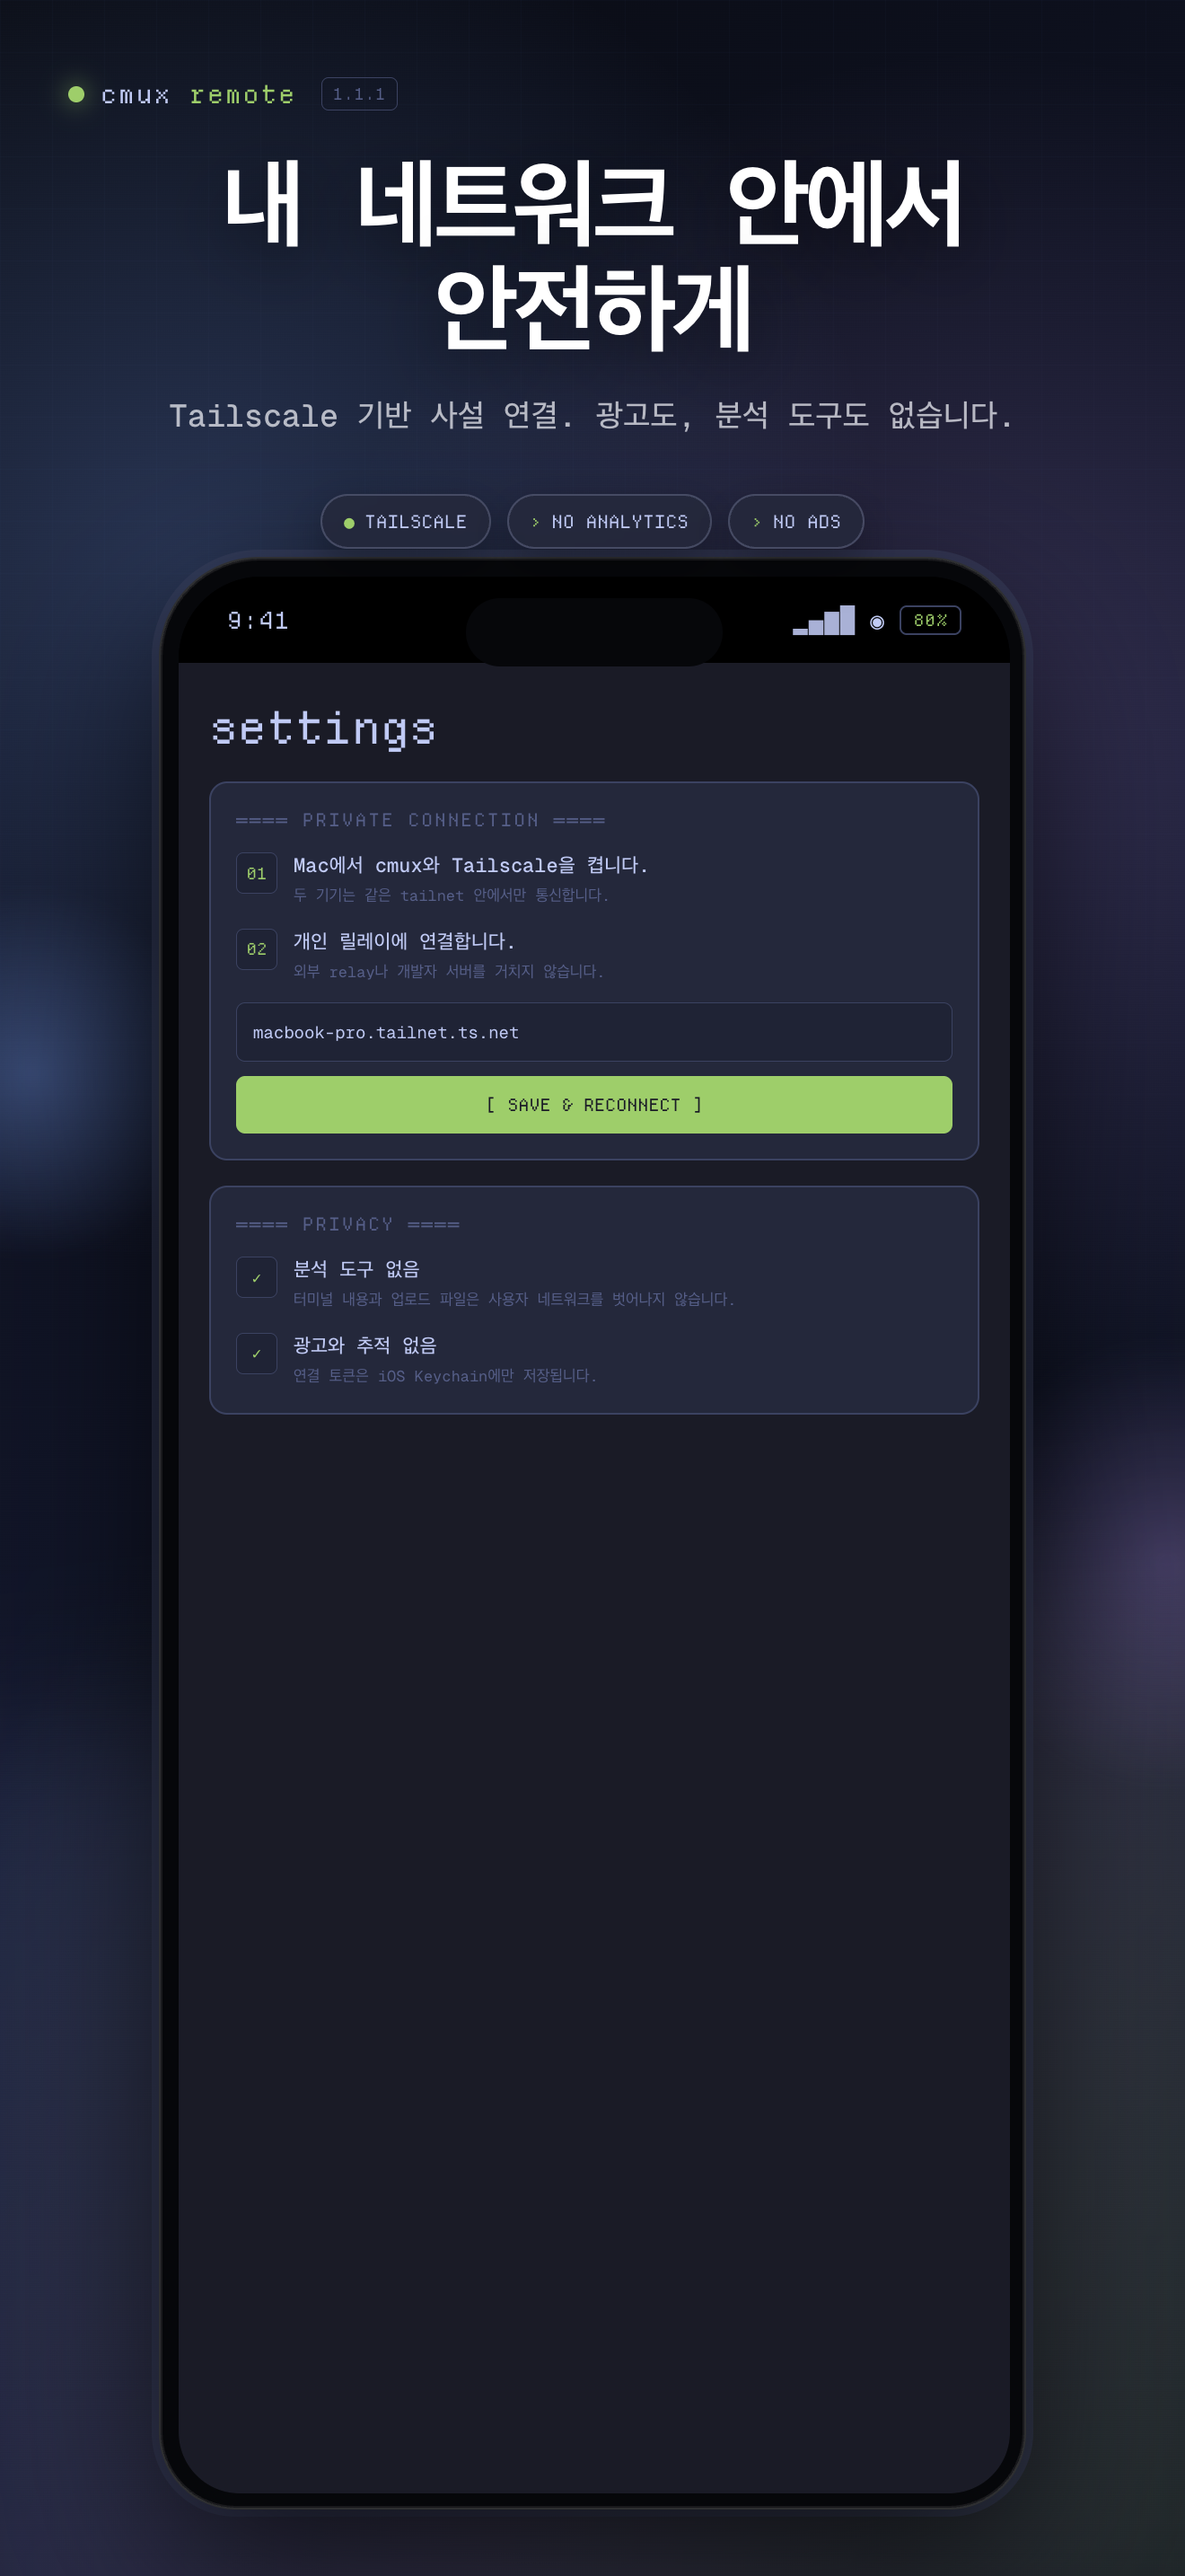
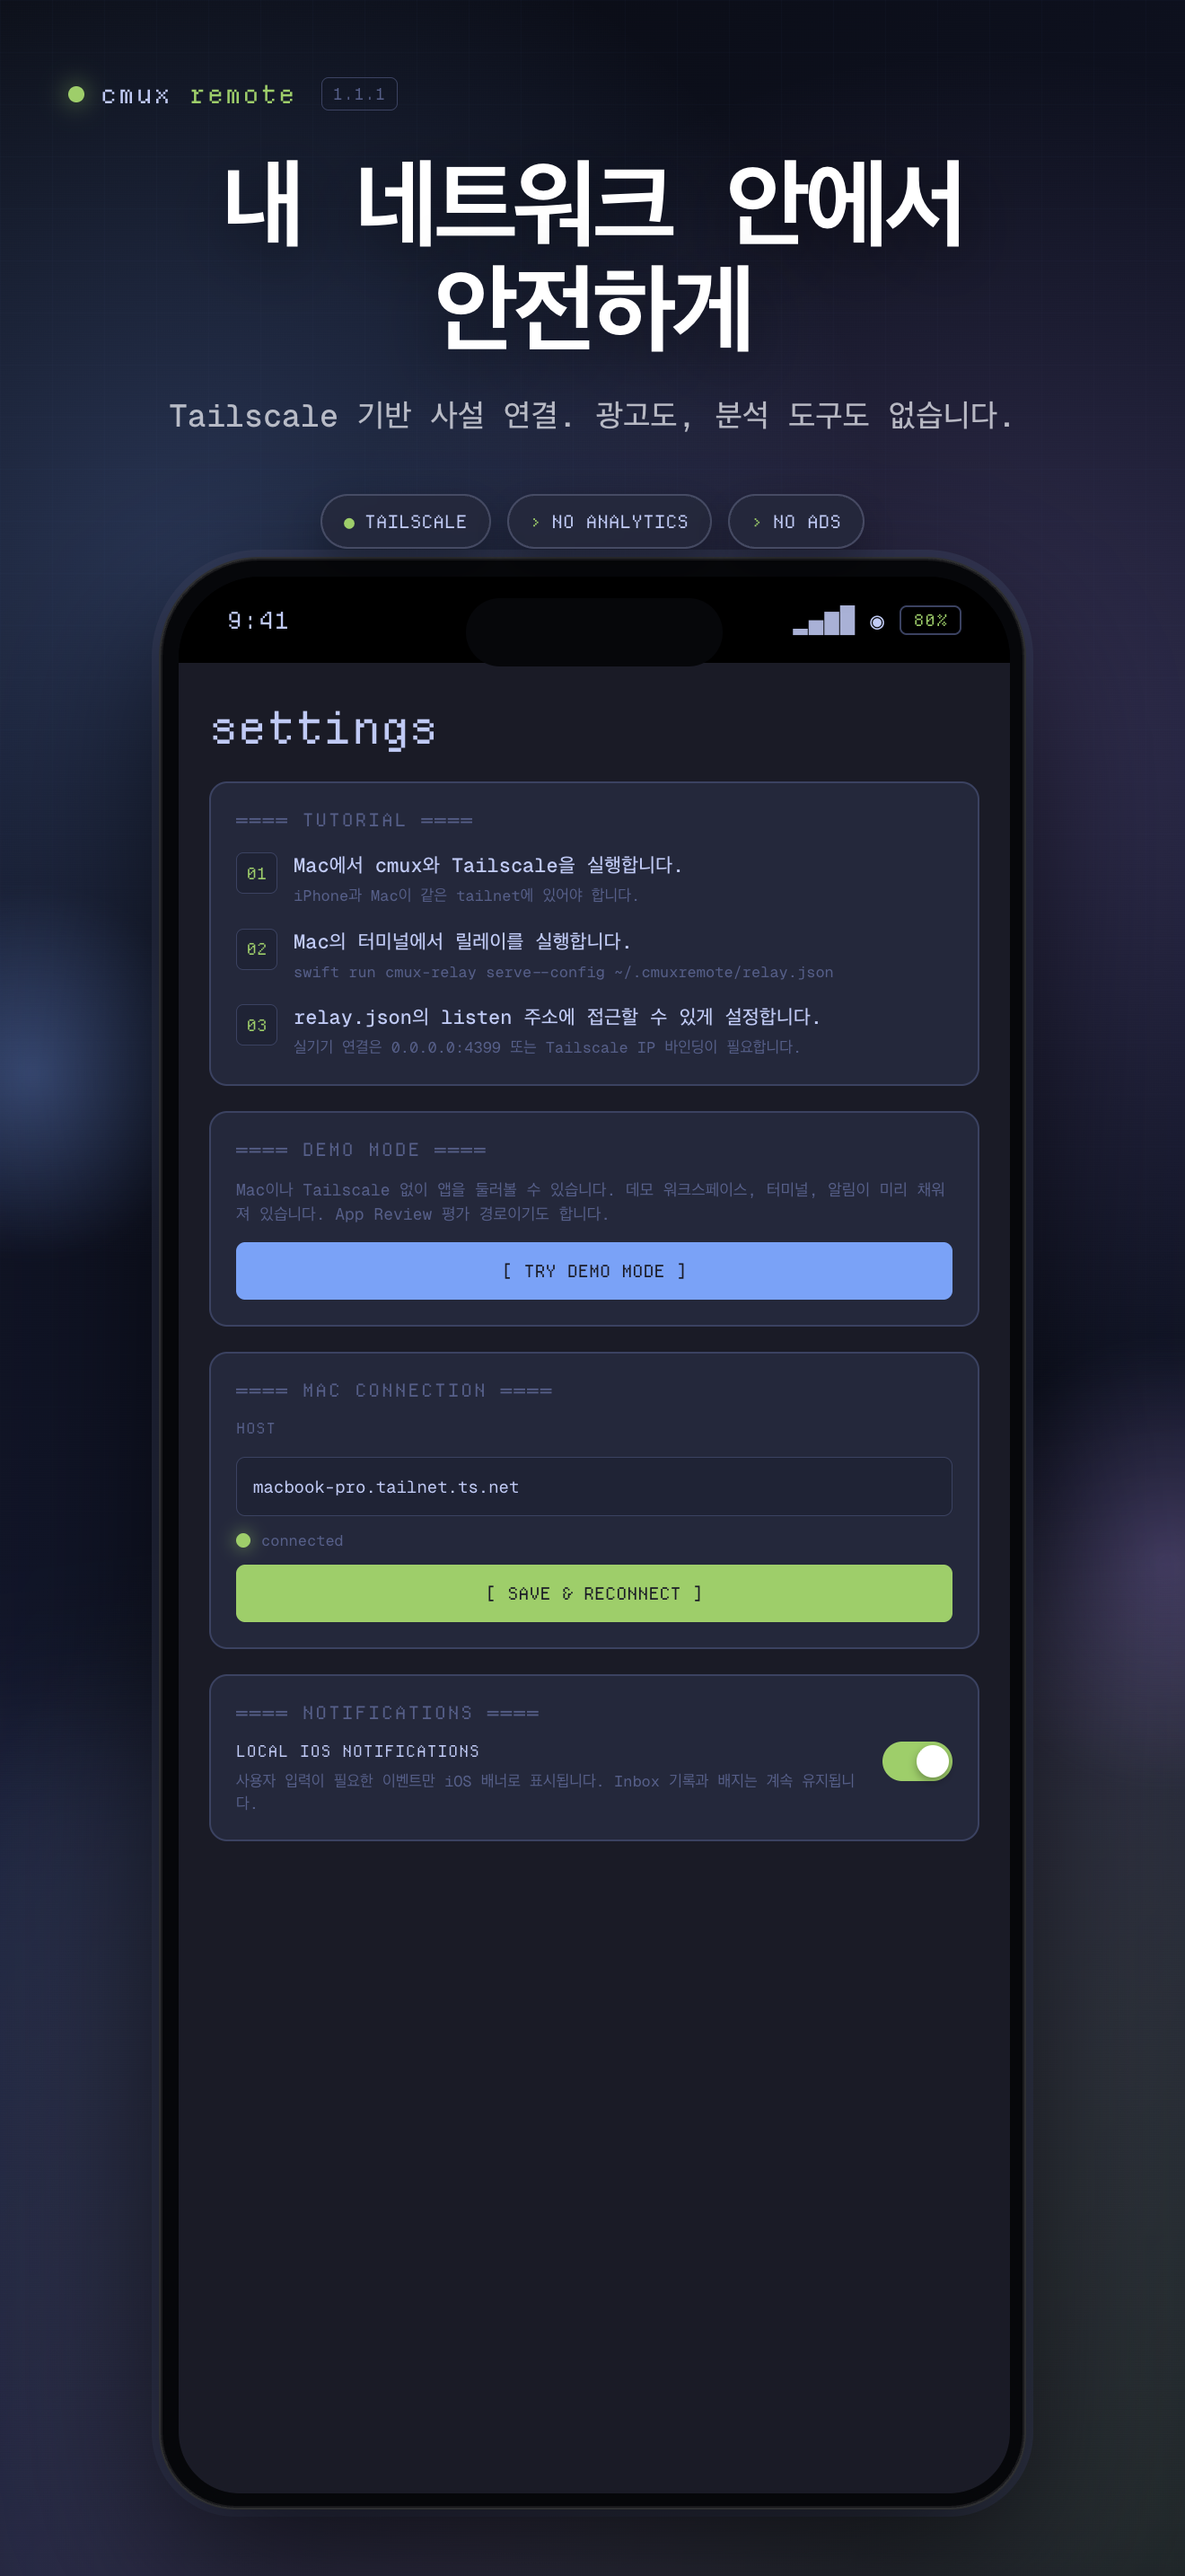
Align screenshots with localized settings copy

Changed region(s): [[0.1864, 0.3103, 0.8076, 0.5586], [0.1864, 0.5896, 0.8076, 0.7137]]

diff --git a/screens-src/1.1.1/index.html b/screens-src/1.1.1/index.html
@@ -768,6 +768,76 @@
       font-family: Departure, monospace;
       font-size: 19px;
     }
+    .settings-description {
+      margin-top: 20px;
+      color: var(--muted);
+      font-size: 18px;
+      line-height: 1.48;
+    }
+    .settings-action {
+      height: 64px;
+      margin-top: 18px;
+      display: flex;
+      align-items: center;
+      justify-content: center;
+      border-radius: 10px;
+      color: var(--canvas);
+      background: var(--blue);
+      font-family: Departure, monospace;
+      font-size: 19px;
+    }
+    .settings-label {
+      margin-top: 20px;
+      color: var(--muted);
+      font-family: Departure, monospace;
+      font-size: 16px;
+      letter-spacing: 1px;
+    }
+    .connection-state {
+      margin-top: 16px;
+      display: flex;
+      align-items: center;
+      gap: 12px;
+      color: var(--muted);
+      font-size: 17px;
+    }
+    .toggle-row {
+      margin-top: 20px;
+      display: flex;
+      align-items: flex-start;
+      gap: 18px;
+    }
+    .toggle-copy { min-width: 0; flex: 1; }
+    .toggle-title {
+      color: var(--ink);
+      font-family: Departure, monospace;
+      font-size: 17px;
+      letter-spacing: 1px;
+    }
+    .toggle-description {
+      margin-top: 10px;
+      color: var(--muted);
+      font-size: 17px;
+      line-height: 1.45;
+    }
+    .toggle {
+      width: 78px;
+      height: 44px;
+      padding: 4px;
+      flex: none;
+      border-radius: 24px;
+      background: var(--green);
+    }
+    .toggle::after {
+      content: "";
+      display: block;
+      width: 36px;
+      height: 36px;
+      margin-left: 34px;
+      border-radius: 50%;
+      background: white;
+      box-shadow: 0 4px 10px rgba(0,0,0,.35);
+    }
 
     .float-card, .float-pill-row {
       position: absolute;
@@ -1143,19 +1213,51 @@
 
     function settingsScreen() {
       const ko = locale === "ko";
+      const s = ko ? {
+        step1Title: "Mac에서 cmux와 Tailscale을 실행합니다.",
+        step1Detail: "iPhone과 Mac이 같은 tailnet에 있어야 합니다.",
+        step2Title: "Mac의 터미널에서 릴레이를 실행합니다.",
+        step2Detail: "swift run cmux-relay serve --config ~/.cmuxremote/relay.json",
+        step3Title: "relay.json의 listen 주소에 접근할 수 있게 설정합니다.",
+        step3Detail: "실기기 연결은 0.0.0.0:4399 또는 Tailscale IP 바인딩이 필요합니다.",
+        demo: "Mac이나 Tailscale 없이 앱을 둘러볼 수 있습니다. 데모 워크스페이스, 터미널, 알림이 미리 채워져 있습니다. App Review 평가 경로이기도 합니다.",
+        notifications: "사용자 입력이 필요한 이벤트만 iOS 배너로 표시됩니다. Inbox 기록과 배지는 계속 유지됩니다."
+      } : {
+        step1Title: "Start cmux and Tailscale on your Mac.",
+        step1Detail: "Your iPhone and Mac must be on the same tailnet.",
+        step2Title: "Start the relay in Terminal on your Mac.",
+        step2Detail: "swift run cmux-relay serve --config ~/.cmuxremote/relay.json",
+        step3Title: "Make the listen address in relay.json reachable.",
+        step3Detail: "A physical device requires binding to 0.0.0.0:4399 or your Tailscale IP.",
+        demo: "Explore the app without a Mac or Tailscale. Demo workspaces, terminals, and notifications are preloaded. This is also the App Review evaluation path.",
+        notifications: "Only events that require your input appear as iOS banners. Inbox history and badges remain available."
+      };
       return `${statusBar()}<div class="settings-screen">
         <div class="settings-title">settings</div>
         <div class="settings-card">
-          <div class="settings-rule">════ ${ko ? "PRIVATE CONNECTION" : "PRIVATE CONNECTION"} ════</div>
-          <div class="guide-step"><div class="step-index">01</div><div class="step-copy"><h4>${ko ? "Mac에서 cmux와 Tailscale을 켭니다." : "Run cmux and Tailscale on your Mac."}</h4><p>${ko ? "두 기기는 같은 tailnet 안에서만 통신합니다." : "Both devices communicate inside your own tailnet."}</p></div></div>
-          <div class="guide-step"><div class="step-index">02</div><div class="step-copy"><h4>${ko ? "개인 릴레이에 연결합니다." : "Connect to your private relay."}</h4><p>${ko ? "외부 relay나 개발자 서버를 거치지 않습니다." : "No developer-operated or third-party relay is involved."}</p></div></div>
+          <div class="settings-rule">════ TUTORIAL ════</div>
+          <div class="guide-step"><div class="step-index">01</div><div class="step-copy"><h4>${s.step1Title}</h4><p>${s.step1Detail}</p></div></div>
+          <div class="guide-step"><div class="step-index">02</div><div class="step-copy"><h4>${s.step2Title}</h4><p>${s.step2Detail}</p></div></div>
+          <div class="guide-step"><div class="step-index">03</div><div class="step-copy"><h4>${s.step3Title}</h4><p>${s.step3Detail}</p></div></div>
+        </div>
+        <div class="settings-card">
+          <div class="settings-rule">════ DEMO MODE ════</div>
+          <div class="settings-description">${s.demo}</div>
+          <div class="settings-action">[ TRY DEMO MODE ]</div>
+        </div>
+        <div class="settings-card">
+          <div class="settings-rule">════ MAC CONNECTION ════</div>
+          <div class="settings-label">HOST</div>
           <div class="connect-field">macbook-pro.tailnet.ts.net</div>
+          <div class="connection-state"><span class="online"></span>connected</div>
           <div class="connect-button">[ SAVE &amp; RECONNECT ]</div>
         </div>
         <div class="settings-card">
-          <div class="settings-rule">════ PRIVACY ════</div>
-          <div class="guide-step"><div class="step-index">✓</div><div class="step-copy"><h4>${ko ? "분석 도구 없음" : "No analytics"}</h4><p>${ko ? "터미널 내용과 업로드 파일은 사용자 네트워크를 벗어나지 않습니다." : "Terminal content and uploads stay on your own network."}</p></div></div>
-          <div class="guide-step"><div class="step-index">✓</div><div class="step-copy"><h4>${ko ? "광고와 추적 없음" : "No ads or tracking"}</h4><p>${ko ? "연결 토큰은 iOS Keychain에만 저장됩니다." : "Connection tokens are stored only in the iOS Keychain."}</p></div></div>
+          <div class="settings-rule">════ NOTIFICATIONS ════</div>
+          <div class="toggle-row">
+            <div class="toggle-copy"><div class="toggle-title">LOCAL IOS NOTIFICATIONS</div><div class="toggle-description">${s.notifications}</div></div>
+            <div class="toggle"></div>
+          </div>
         </div>
       </div>`;
     }
